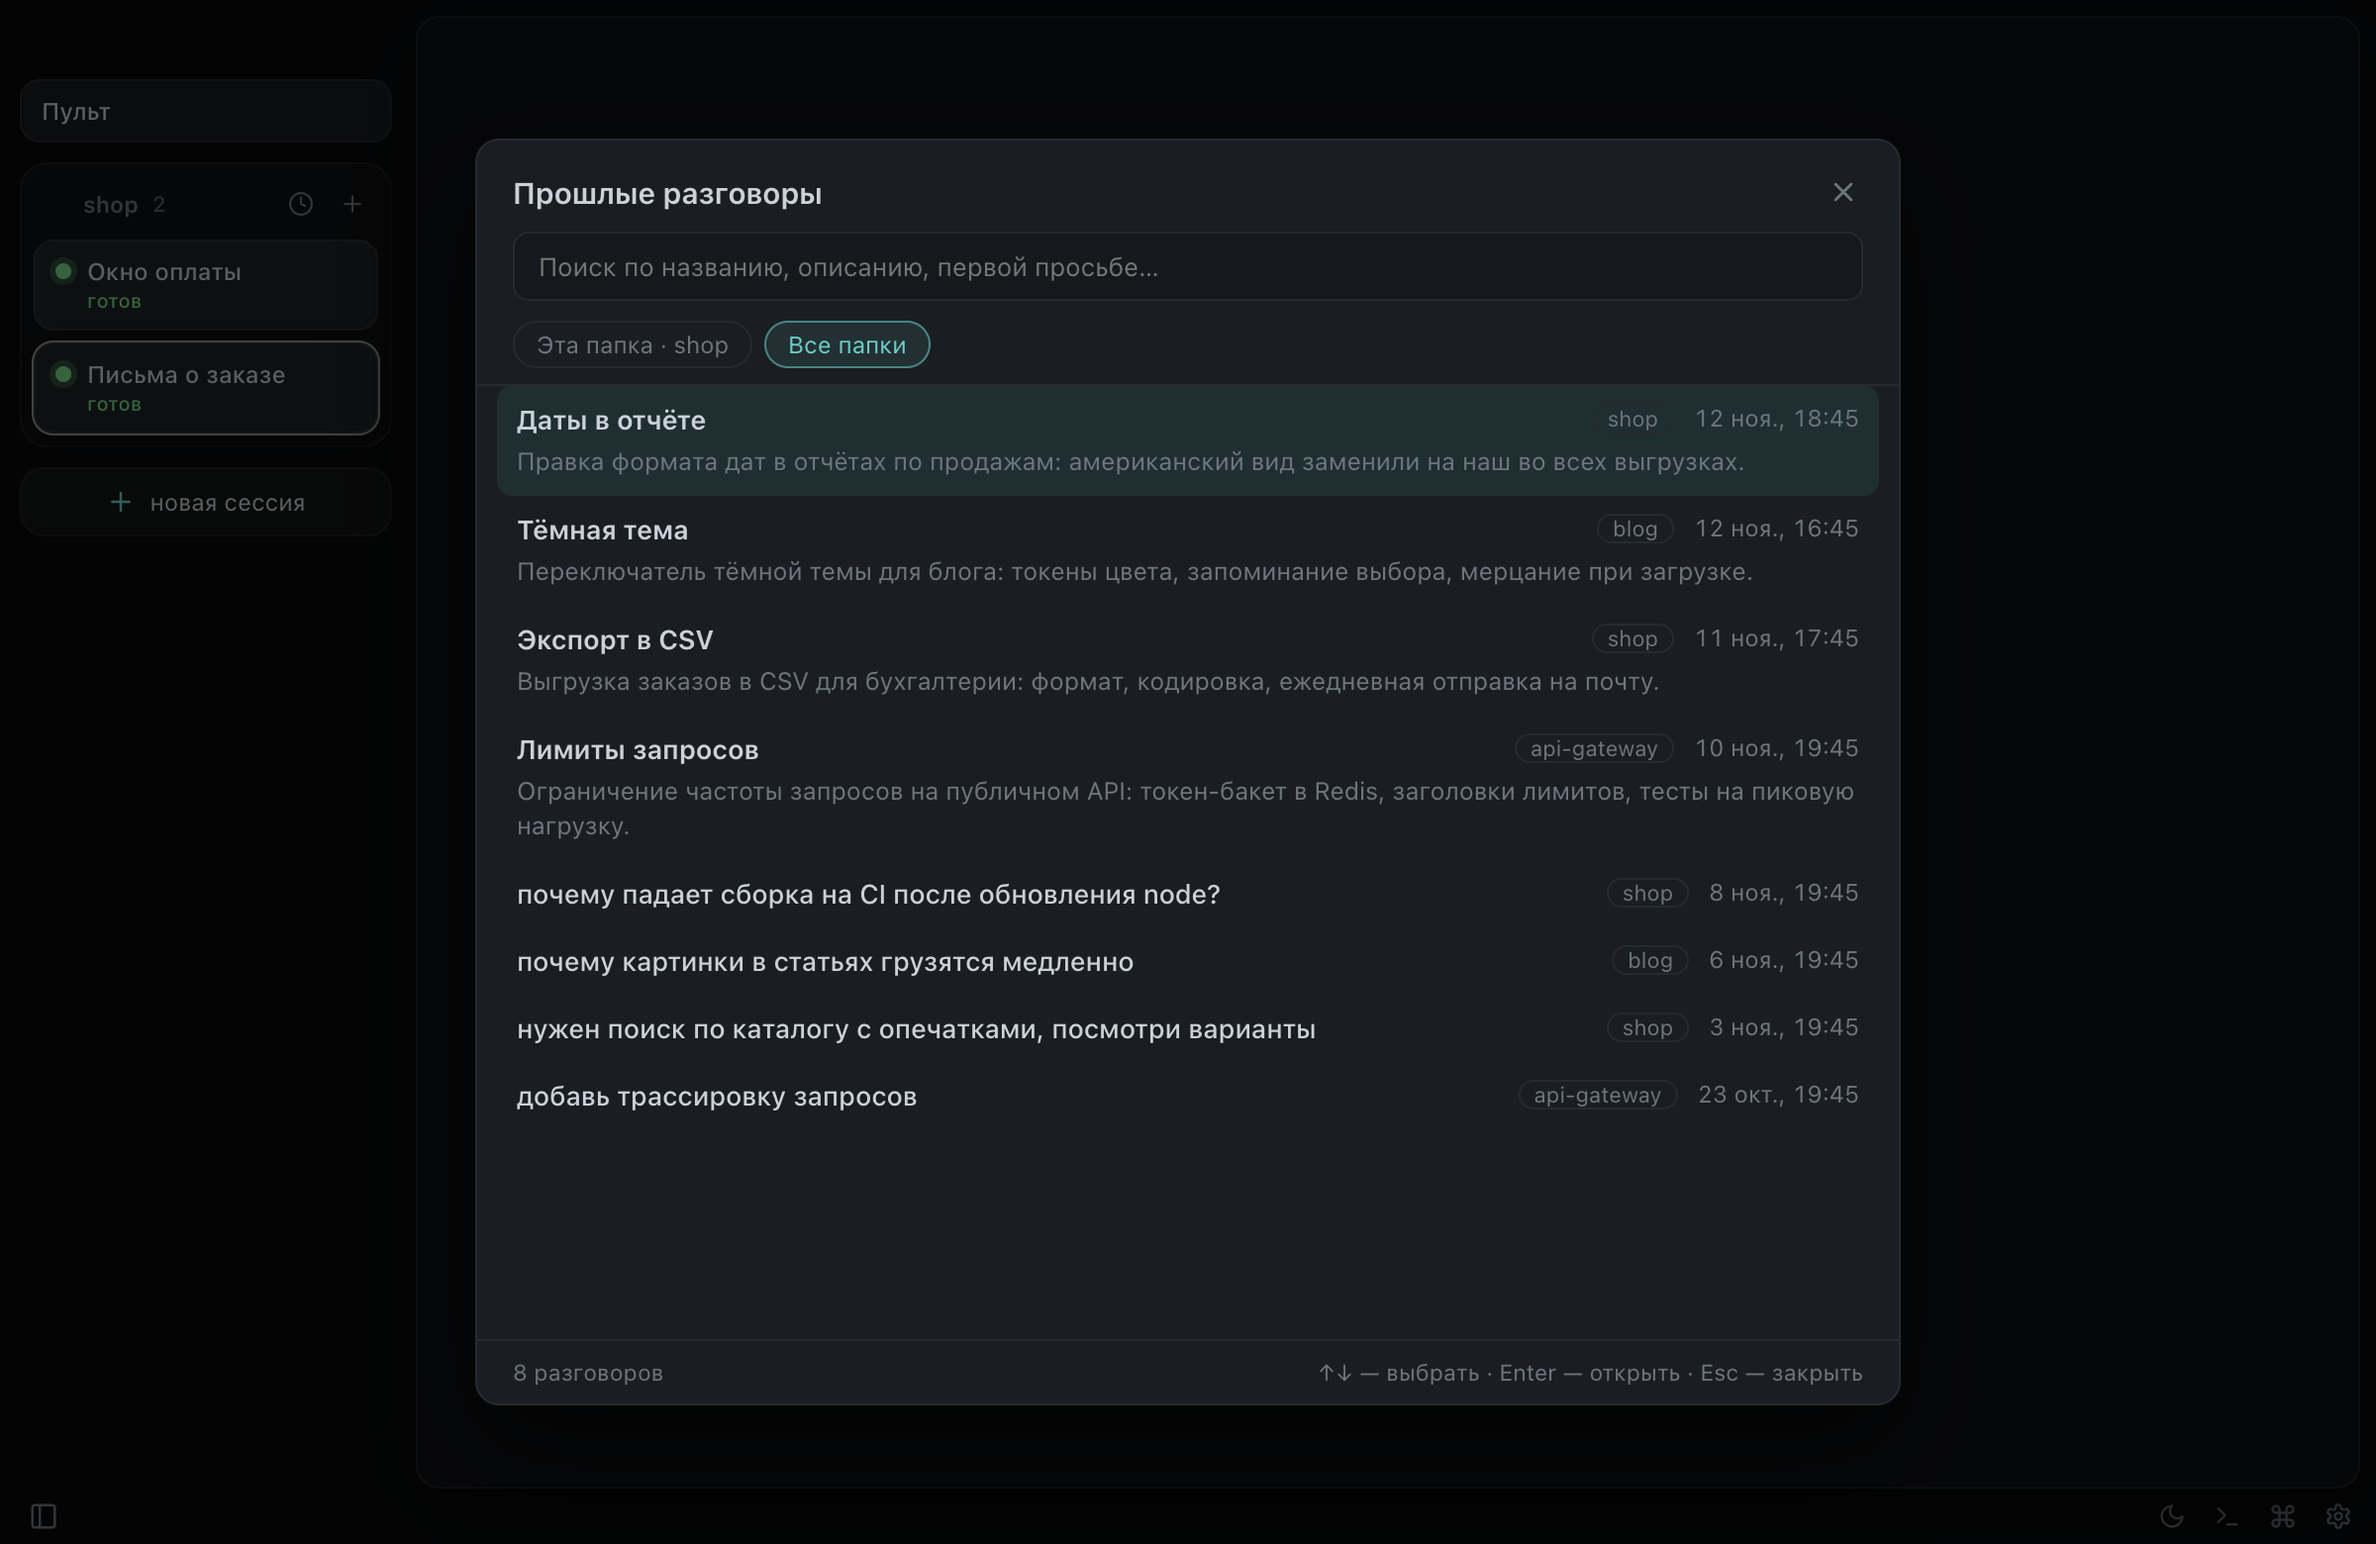
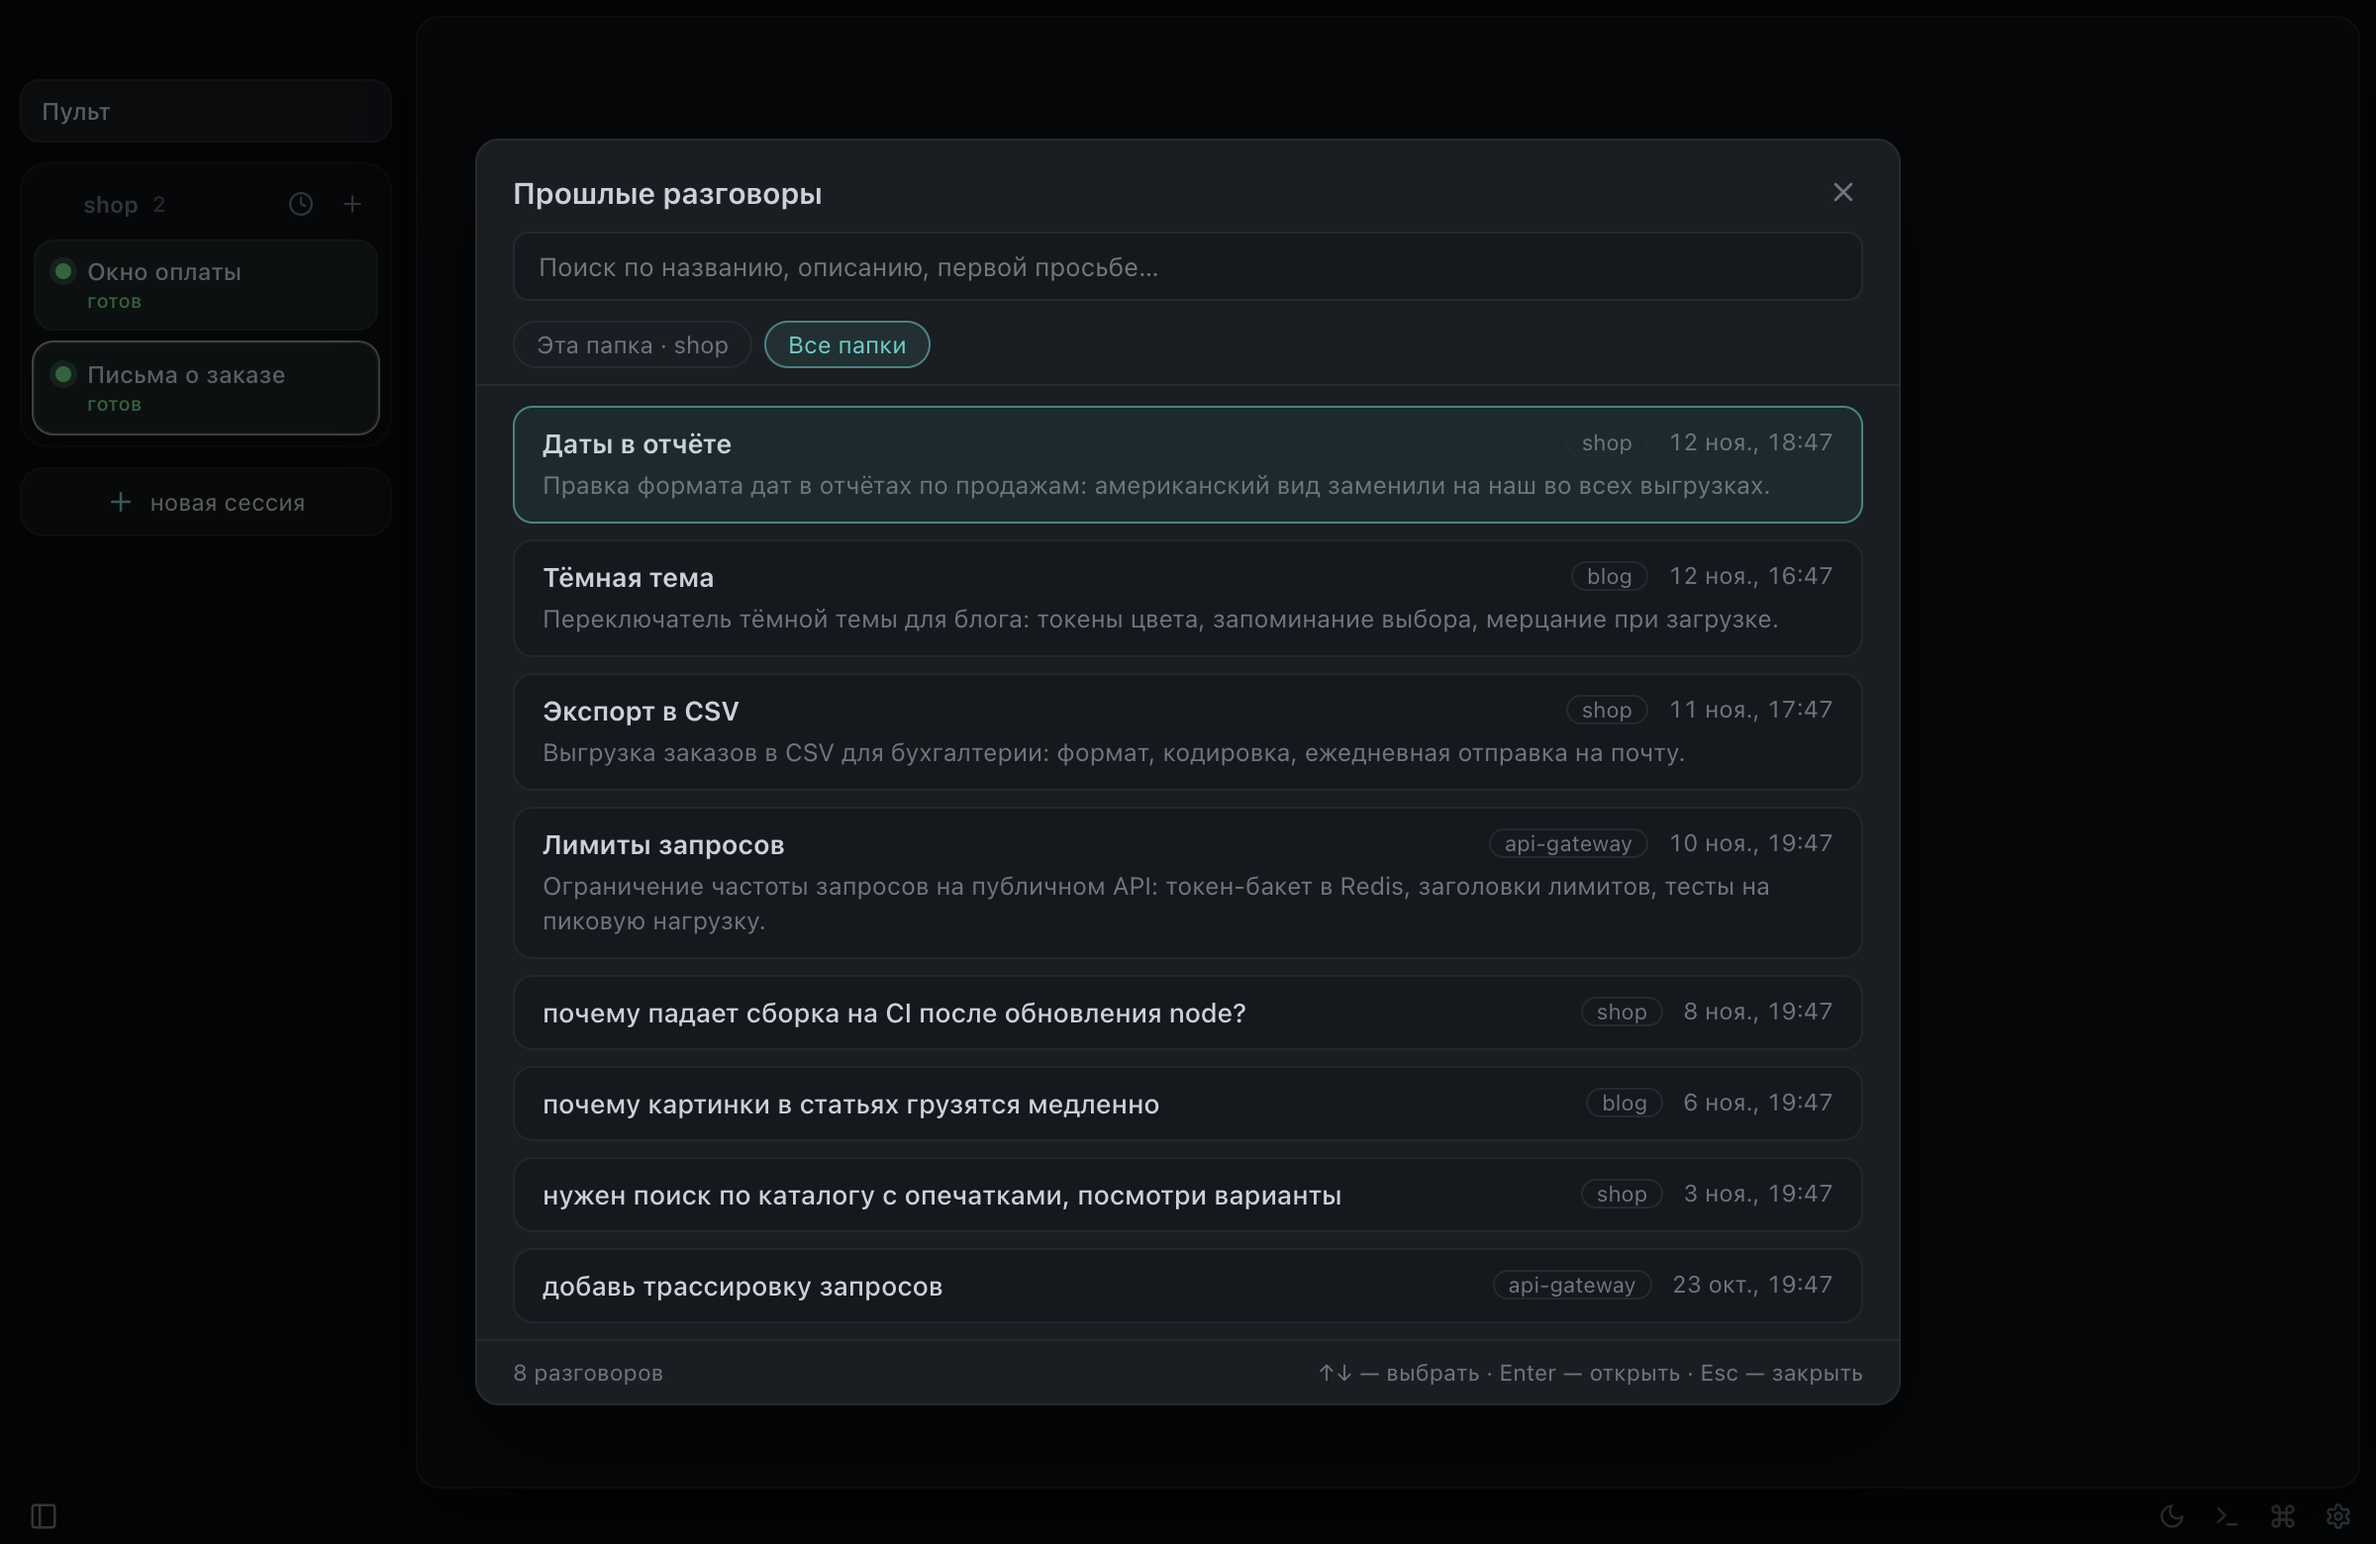
style(tabs): past conversations as separate cards

diff --git a/renderer/styles.css b/renderer/styles.css
@@ -2517,14 +2517,16 @@ body.has-digest.pult-on #gate-strip { top: calc(34px + var(--digest-h, 58px)); }
 }
 .hm-scope button:hover { color: var(--text); }
 .hm-scope button.on { color: var(--accent); border-color: color-mix(in srgb, var(--accent) 55%, var(--border)); background: color-mix(in srgb, var(--accent) 10%, transparent); }
-.hm-list { flex: 1 1 auto; min-height: 0; overflow-y: auto; padding: 0 10px 8px; border-top: 1px solid var(--hairline); }
+.hm-list { flex: 1 1 auto; min-height: 0; overflow-y: auto; padding: 2px 18px 12px; border-top: 1px solid var(--hairline); }
 .hm-note { padding: 28px 12px; text-align: center; color: var(--muted); font-size: 13px; line-height: 1.5; }
 .hm-item {
   display: flex; flex-direction: column; gap: 4px; width: 100%; text-align: left;
-  padding: 9px 10px; border-radius: 8px; border: 0; background: transparent; color: var(--text); cursor: pointer;
-  min-width: 0; overflow: hidden;
+  padding: 10px 14px; border-radius: 10px; color: var(--text); cursor: pointer;
+  min-width: 0; overflow: hidden; margin-top: 8px;
+  background: var(--panel); border: 1px solid var(--hairline);
 }
-.hm-item.sel { background: color-mix(in srgb, var(--accent) 12%, var(--panel)); }
+.hm-item:hover { border-color: var(--border); }
+.hm-item.sel { background: color-mix(in srgb, var(--accent) 10%, var(--panel)); border-color: color-mix(in srgb, var(--accent) 55%, var(--border)); }
 .hm-top { display: flex; align-items: baseline; gap: 10px; min-width: 0; }
 .hm-name { flex: 1; min-width: 0; font-size: 13.5px; font-weight: 600; white-space: nowrap; overflow: hidden; text-overflow: ellipsis; }
 /* Без имени строку зовёт первая просьба человека — она длинная, ей обычный вес. */
